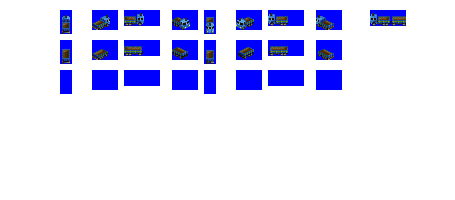
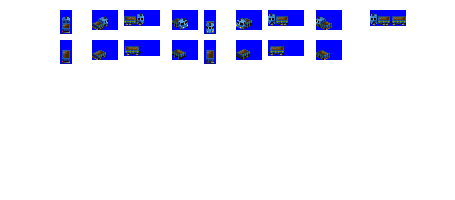
Fix: Jinglepot lengths wrong for \ / views, also swap trailer on Jinglepot and Rattlebrook for 4/8 version

diff --git a/src/vehicles/jinglepot.py b/src/vehicles/jinglepot.py
@@ -19,7 +19,7 @@ consist.add_unit(OpenHauler(consist = consist,
 consist.add_unit(OpenHauler(consist = consist,
                         weight = 5,
                         capacity = 15,
-                        vehicle_length = 5,
+                        vehicle_length = 4,
                         spriterow_num = 1))
 
 consist.add_model_variant(intro_date=0,

diff --git a/src/vehicles/rattlebrook.py b/src/vehicles/rattlebrook.py
@@ -18,7 +18,7 @@ consist.add_unit(OpenHauler(consist = consist,
 consist.add_unit(OpenHauler(consist = consist,
                         weight = 5,
                         capacity = 15,
-                        vehicle_length = 5,
+                        vehicle_length = 4,
                         spriterow_num = 1))
 
 consist.add_model_variant(intro_date=0,
